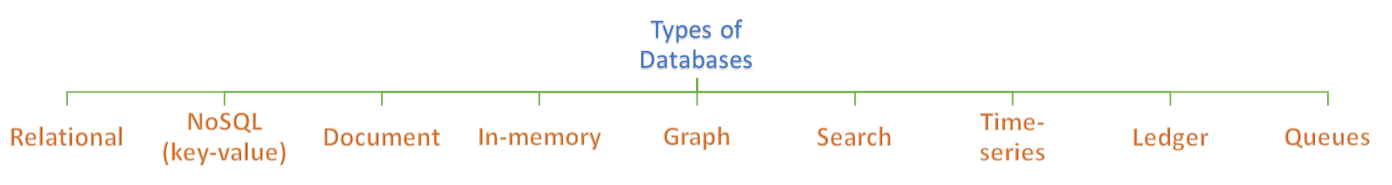
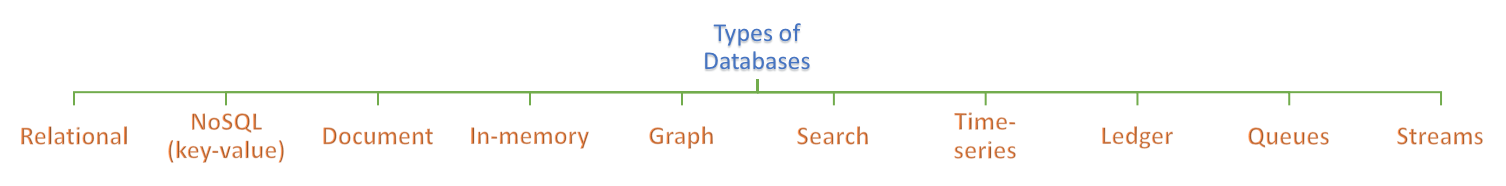
selecting_right_database section

diff --git a/selecting_right_database.rst b/selecting_right_database.rst
@@ -1,0 +1,28 @@
+============================
+Selecting the right database
+============================
+
+This section some characteristics and comparison points between different database technologies.
+
++-----------------+--------------------+---------------------+---------------------+------------------+---------------+-----------------+--------------------+----------------+-------------------+---------------------------+
+| Property        | Relational DB      | NoSQL DB            | Document DB         | In-memory DB     | Graph DB      | Search DB       | Time-series DB     | Ledger DB      | Queues            | Streams                   |
++=================+====================+=====================+=====================+==================+===============+=================+====================+================+===================+===========================+
+| Type            | Relational         | Non-Relational      | Non-Relational      | Non-Relational   | Relational    | Non-Relational  | Relational         | Non-Relational | Non-Relational    | Non-Relational            |
++-----------------+--------------------+---------------------+---------------------+------------------+---------------+-----------------+--------------------+----------------+-------------------+---------------------------+
+| Data            | Structured         | Un-structured       | Un-structured       | Un-structured    | Un-structured | Semi-structured | Structured         | Chain          | Un-structured     | Un-structured             |
++-----------------+--------------------+---------------------+---------------------+------------------+---------------+-----------------+--------------------+----------------+-------------------+---------------------------+
+| Data format     | Records, tuples    | JSON                | JSON                | JSON             | N/A           | JSON            | JSON               | JSON           | Objects           | Objects                   |
++-----------------+--------------------+---------------------+---------------------+------------------+---------------+-----------------+--------------------+----------------+-------------------+---------------------------+
+| Scalability     | Vertical           | Horizontal          | Horizontal          | Horizontal       | Horizontal    | Horizontal      | Horizontal         | Horizontal     | Horizontal        | Horizontal                |
++-----------------+--------------------+---------------------+---------------------+------------------+---------------+-----------------+--------------------+----------------+-------------------+---------------------------+
+| Record type     | Flat               | Hierarchical        | Hierarchical        | Hierarchical     | Hierarchical  | Hierarchical    | Flat, Hierarchical | Hierarchical   | Objects           | Objects                   |
++-----------------+--------------------+---------------------+---------------------+------------------+---------------+-----------------+--------------------+----------------+-------------------+---------------------------+
+| Applications    | CRM, Finance       | Shopping cart       | Content Management  | Leaderboards     | Social media  | Product catalog | IoT applications   | Cryptocurrency | Queuing tasks     | Weather data              |
++-----------------+--------------------+---------------------+---------------------+------------------+---------------+-----------------+--------------------+----------------+-------------------+---------------------------+
+| Complex queries | Yes                | No                  | No                  | No               | No            | No              | No                 | No             | N/A               | N/A                       |
++-----------------+--------------------+---------------------+---------------------+------------------+---------------+-----------------+--------------------+----------------+-------------------+---------------------------+
+| Property        | ACID               | CAP theorem         | CAP theorem         | CAP theorem      | CAP theorem   | CAP theorem     | ACID               | N/A            | N/A               | N/A                       |
++-----------------+--------------------+---------------------+---------------------+------------------+---------------+-----------------+--------------------+----------------+-------------------+---------------------------+
+| Engine(s)       | MySQL, PostgresSQL | Cassandra, DynamoDB | MongoDB, DocumentDB | Redis, Memcached | Neo4j         | Elasticsearch   | InfluxDB           | AWS QLDB       | ActiveMQ, AWS SQS | Apache Kafka, AWS Kinesis |
++-----------------+--------------------+---------------------+---------------------+------------------+---------------+-----------------+--------------------+----------------+-------------------+---------------------------+
+

diff --git a/README.rst b/README.rst
@@ -12,8 +12,9 @@ This repository is a collection of all-things database. It includes some fundame
 Index:
 
 * `MySQL commands <mysql_commands.rst>`__ 
-* `Code Samples <code-samples/index.rst>`__ 
-* `Interview Questions <interview-questions/index.rst>`__ 
+* `Selecting the right database <selecting_right_database.rst>`__ 
+* `Code Samples <code-samples/README.rst>`__ 
+* `Interview Questions <interview-questions/README.rst>`__ 
 
 Contributing
 ============
